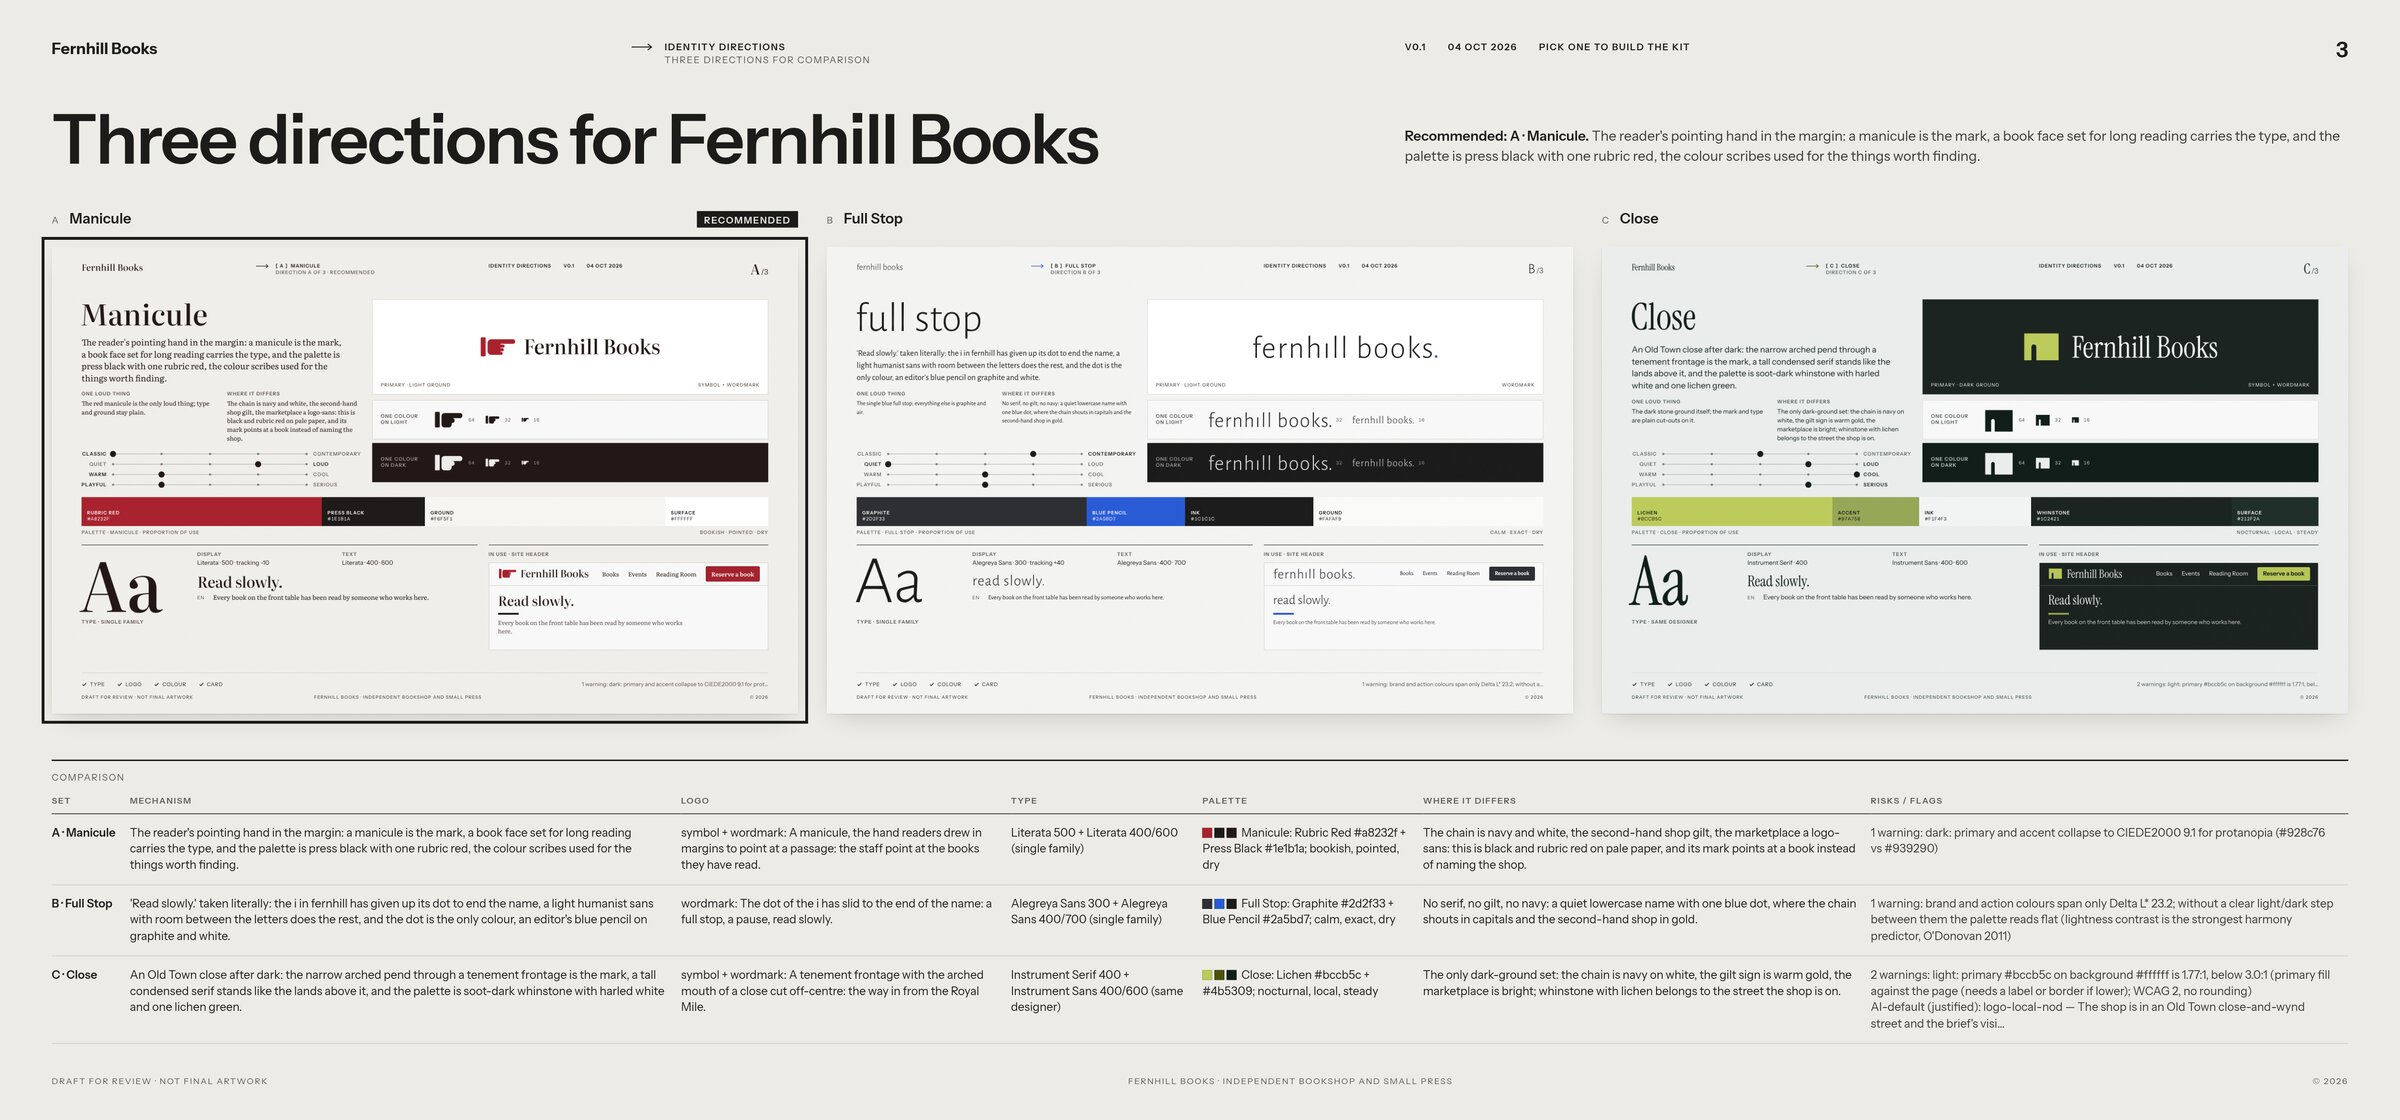
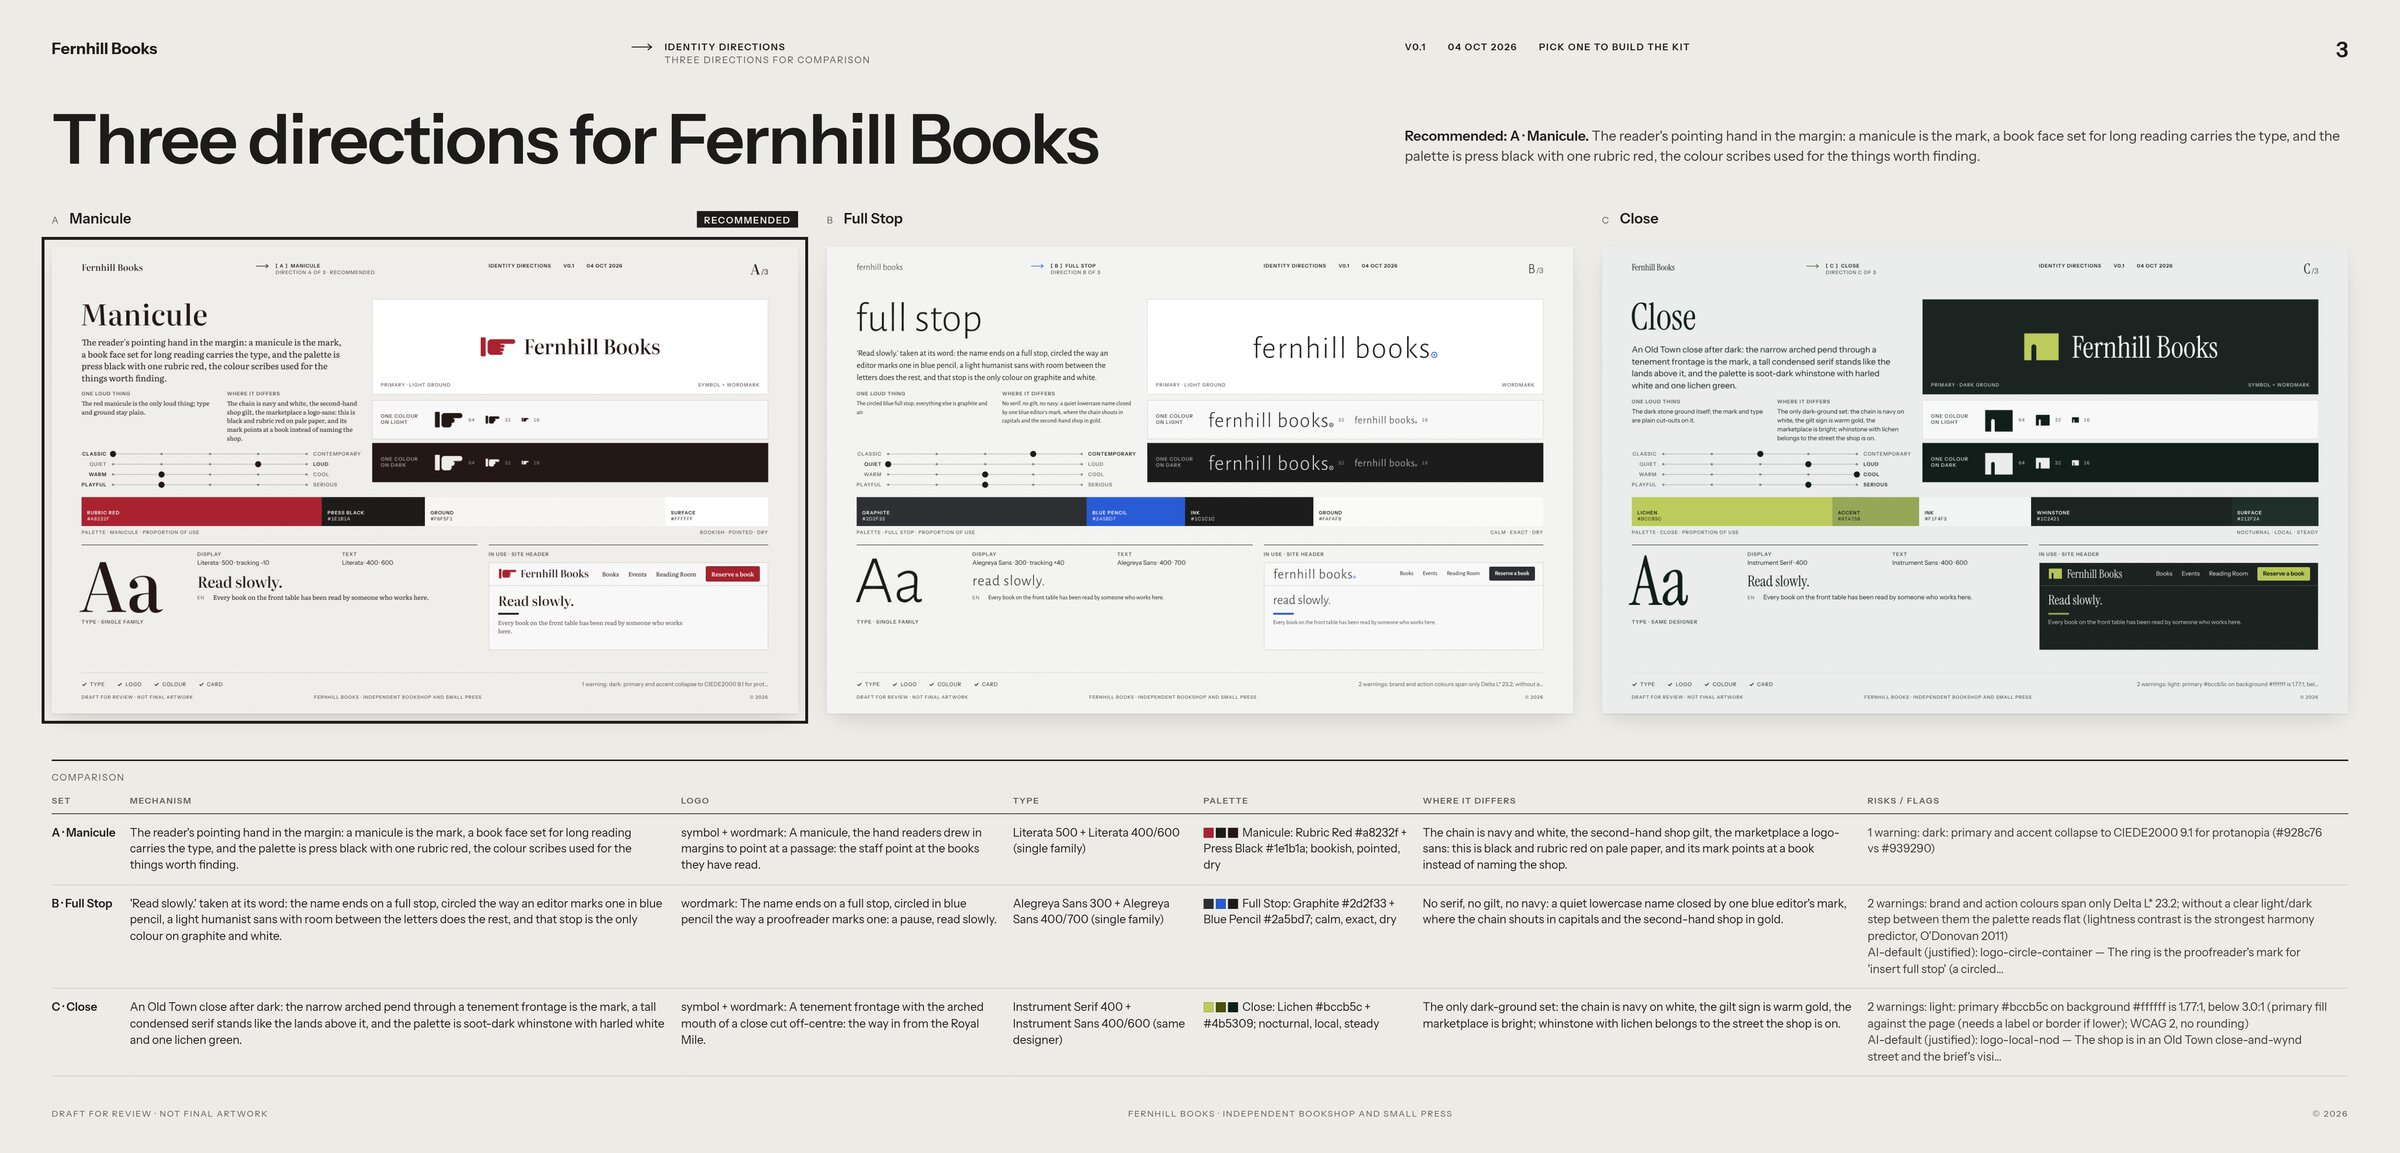
Fix Windows competitors over websocket; revised example sets in the README

diff --git a/tests/test_site_palette.py b/tests/test_site_palette.py
@@ -711,6 +711,28 @@ class Integration(unittest.TestCase):
         self.assertEqual(meta["layoutStress"]["desktop"], 0)
         self.assertTrue(meta["roles"]["primary"])
 
+    def test_websocket_clients_idle_or_closed_do_not_hold_other_clients_pages(self):
+        """Chrome holds a new page's navigation until every auto-attached client lets it go (Windows competitors: a
+        finished worker that stopped reading made the last pages time out)."""
+        b, done = cdplib.Browser(BROWSER, pipe=False), threading.Event()
+        try:
+            other = b.client()
+            t = threading.Thread(target=other.idle, args=(done.is_set,), daemon=True)
+            t.start()
+            page = b.main.new_page(viewport=(800, 600))
+            self.assertEqual(page.goto(fixture_url("cafe.html"), timeout=15)["status"], 200)
+            page.close()
+            done.set()
+            t.join(5)
+            other.close()
+            self.assertEqual(b.clients, [b.main])
+            page = b.main.new_page(viewport=(800, 600))
+            page.goto(fixture_url("cafe.html"), timeout=15)
+            page.close()
+        finally:
+            done.set()
+            b.close()
+
     def test_competitors_parked_challenge_and_403_sites_are_kept_out_of_the_map(self):
         def page(name):
             with open(os.path.join(FIXTURES, name), "rb") as fh:
@@ -738,20 +760,22 @@ class Integration(unittest.TestCase):
         try:
             urls = [srv.base + p for p in ("/ok", "/parked", "/challenge", "/forbidden", "/missing")]
             r = run_tool("competitors", *urls, "--out", self.tmp)
-            self.assertEqual(r.returncode, 0, r.stderr)
+            msg = f"stdout:\n{r.stdout}\nstderr:\n{r.stderr}"  # stderr carries the driver's notes on a failed load
+            self.assertEqual(r.returncode, 0, msg)
             doc = read_json(os.path.join(self.tmp, "competitors.json"))
-            self.assertEqual([[s["url"], s["status"]] for s in doc["sites"]], [[srv.base + "/ok", "ok"]])
+            self.assertEqual([[s["url"], s["status"]] for s in doc["sites"]], [[srv.base + "/ok", "ok"]], msg)
             st = {e["url"].replace(srv.base, ""): e["status"] for e in doc["errors"]}
-            self.assertEqual(st, {"/parked": "parked", "/challenge": "blocked", "/forbidden": "blocked", "/missing": "error"})
+            self.assertEqual(st, {"/parked": "parked", "/challenge": "blocked", "/forbidden": "blocked", "/missing": "error"},
+                             msg)
             out = r.stdout
-            self.assertRegex(out, r"^competitors: 1 ok, 1 parked, 2 blocked, 1 failed")
-            self.assertRegex(out, r"parked +parked, skipped: page says")
-            self.assertRegex(out, r'blocked +blocked, skipped: (page title "Just a moment|Cloudflare challenge)')
-            self.assertRegex(out, r"blocked +blocked, skipped: HTTP 403")
-            self.assertRegex(out, r"error +failed, skipped: HTTP 404")
-            self.assertRegex(out, r"1 of 5 competitors measured; positioning falls back to the brief")
-            self.assertNotRegex(out, r"mock|site_preview")  # an unreadable competitor is no reason to preview on mocks
-            self.assertRegex(out, r"127\.0\.0\.1 +ok +#1f5f7a blue")
+            self.assertRegex(out, r"^competitors: 1 ok, 1 parked, 2 blocked, 1 failed", msg)
+            self.assertRegex(out, r"parked +parked, skipped: page says", msg)
+            self.assertRegex(out, r'blocked +blocked, skipped: (page title "Just a moment|Cloudflare challenge)', msg)
+            self.assertRegex(out, r"blocked +blocked, skipped: HTTP 403", msg)
+            self.assertRegex(out, r"error +failed, skipped: HTTP 404", msg)
+            self.assertRegex(out, r"1 of 5 competitors measured; positioning falls back to the brief", msg)
+            self.assertNotRegex(out, r"mock|site_preview", msg)  # an unreadable competitor is no reason to preview on mocks
+            self.assertRegex(out, r"127\.0\.0\.1 +ok +#1f5f7a blue", msg)
         finally:
             srv.close()
 

diff --git a/skills/brand-identity/scripts/site_palette.py b/skills/brand-identity/scripts/site_palette.py
@@ -39,6 +39,7 @@ Playwright cache, or an installed Chrome / Chromium / Edge / Brave. The browser 
 Read-only: never clicks, types or submits anything.
 """
 import base64
+import contextlib
 import gzip
 import json
 import math
@@ -1184,10 +1185,25 @@ def cmd_competitors(S, urls, out, concurrency=3):
 
         # one browser per extra worker over the pipe (one client each), else one more client per worker
         extra = [cdplib.Browser(S.browser.executable) for _ in range(workers - 1)] if S.browser.pipe else []
+        shared = not extra   # websocket: all workers are clients of one browser
+        sessions, running = [S], [workers]
+
+        def work(sess):
+            try:
+                _guard(errors, run, sess)
+            finally:
+                with lock:
+                    running[0] -= 1
+                if shared:
+                    # Chrome holds every new page's navigation until each client lets it go: a finished worker keeps
+                    # answering until the last one is done (else the last pages time out in page.goto)
+                    with contextlib.suppress(Exception):
+                        sess.client.idle(lambda: running[0] == 0)
+
         try:
-            sessions = [S] + ([Session(b) for b in extra] if extra else
-                              [Session(S.browser, S.browser.client()) for _ in range(workers - 1)])
-            threads = [threading.Thread(target=lambda s=s: _guard(errors, run, s), daemon=True) for s in sessions]
+            sessions += ([Session(b) for b in extra] if extra else
+                         [Session(S.browser, S.browser.client()) for _ in range(workers - 1)])
+            threads = [threading.Thread(target=work, args=(s,), daemon=True) for s in sessions]
             for t in threads:
                 t.start()
             for t in threads:
@@ -1195,6 +1211,10 @@ def cmd_competitors(S, urls, out, concurrency=3):
         finally:
             for b in extra:
                 b.close()
+            if shared:
+                for sess in sessions[1:]:
+                    with contextlib.suppress(Exception):
+                        sess.client.close()
         if errors:
             raise errors[0]
     doc = {"schema": "brand-identity/competitors@1", "measuredAt": now_iso(),

diff --git a/skills/brand-identity/scripts/cdplib.py b/skills/brand-identity/scripts/cdplib.py
@@ -820,7 +820,11 @@ class Client:
     """One websocket to the browser; makes pages (each in its own incognito context unless context=False).
 
     Like Playwright, new pages are auto-attached paused (Target.setAutoAttach, waitForDebuggerOnStart) so every
-    emulation is in place before their first document; pages made by another client are let go at once."""
+    emulation is in place before their first document; pages made by another client are let go at once.
+
+    Every client is auto-attached to every new page, and Chrome holds a new page's navigations until each of them
+    has let it go. So a client must keep reading its socket while other clients work (`idle`), or be closed
+    (`close`): a client nobody pumps stalls every later page of the other clients (page.goto times out)."""
 
     def __init__(self, browser):
         self.browser = browser
@@ -839,6 +843,22 @@ class Client:
             return
         self.conn.send("Runtime.runIfWaitingForDebugger", session=sid)
         self.conn.send("Target.detachFromTarget", {"sessionId": sid})
+
+    def idle(self, until, step=0.1):
+        """Keep answering the browser (letting other clients' new pages go) until until() is true."""
+        while not until():
+            self.conn.pump(step)
+
+    def close(self):
+        """Disconnect a websocket client (not the browser's main client); Chrome drops its auto-attachments."""
+        if self.browser.pipe or self is self.browser.main:
+            raise CDPError("only an extra websocket client can be closed")
+        with self.browser.lock:
+            for tid in [t for t, c in self.browser.created.items() if c is self]:
+                del self.browser.created[tid]
+        if self in self.browser.clients:
+            self.browser.clients.remove(self)
+        self.conn.close()
 
     def new_page(self, viewport=(1280, 720), device_scale_factor=1, mobile=False, has_touch=False, user_agent=None,
                  color_scheme="light", reduced_motion="reduce", locale="en-US", bypass_csp=True,

diff --git a/README.md b/README.md
@@ -44,8 +44,8 @@ sign, an online marketplace.*
 ![Three directions for Fernhill Books with the comparison table](docs/images/fernhill-board.jpg)
 
 **A · Manicule** (recommended, picked): the pointing hand readers drew in margins is the mark, Literata carries both
-display and text, and the palette is press black with one rubric red. **B · Full Stop**: the dot of the *i* slides
-to the end of the name. **C · Close**: an Old Town passage under a tenement, on a dark ground.
+display and text, and the palette is press black with one rubric red. **B · Full Stop**: a quiet lowercase name that
+ends on a blue proofreader's full stop. **C · Close**: an Old Town passage under a tenement, on a dark ground.
 
 | Kit: cover | Kit: typography |
 |---|---|
@@ -71,7 +71,7 @@ duration bar. **C · Night Floor**: two L-pieces lock into one square, dark-firs
 | Brief | Languages | Directions (recommended first) |
 |---|---|---|
 | ![](docs/images/gallery/molino.jpg) **Molino Coffee**, a specialty coffee shop in Lisbon | en, pt | Vizinho · Mó · Bloco |
-| ![](docs/images/gallery/hartwell.jpg) **Hartwell & Oduya**, a commercial law firm in London | en | The Bar Between · Redline · Counterparts |
+| ![](docs/images/gallery/hartwell.jpg) **Hartwell & Oduya**, a commercial law firm in London | en | The Bar Between · Equal Measure · Counterparts |
 | ![](docs/images/gallery/parallax.jpg) **Parallax Labs**, AI planning agents for supply chains | en | Depth Field · Parallax Error · Computation Pad |
 | ![](docs/images/gallery/fauvel.jpg) **Domaine Fauvel**, a natural wine estate in Burgundy | en, fr | La Taille · Climat · Fauve |
 | ![](docs/images/gallery/moonvault.jpg) **Moonvault**, a self-custody crypto wallet | en | Held Moon · Two O's · Lamp Arcade |
